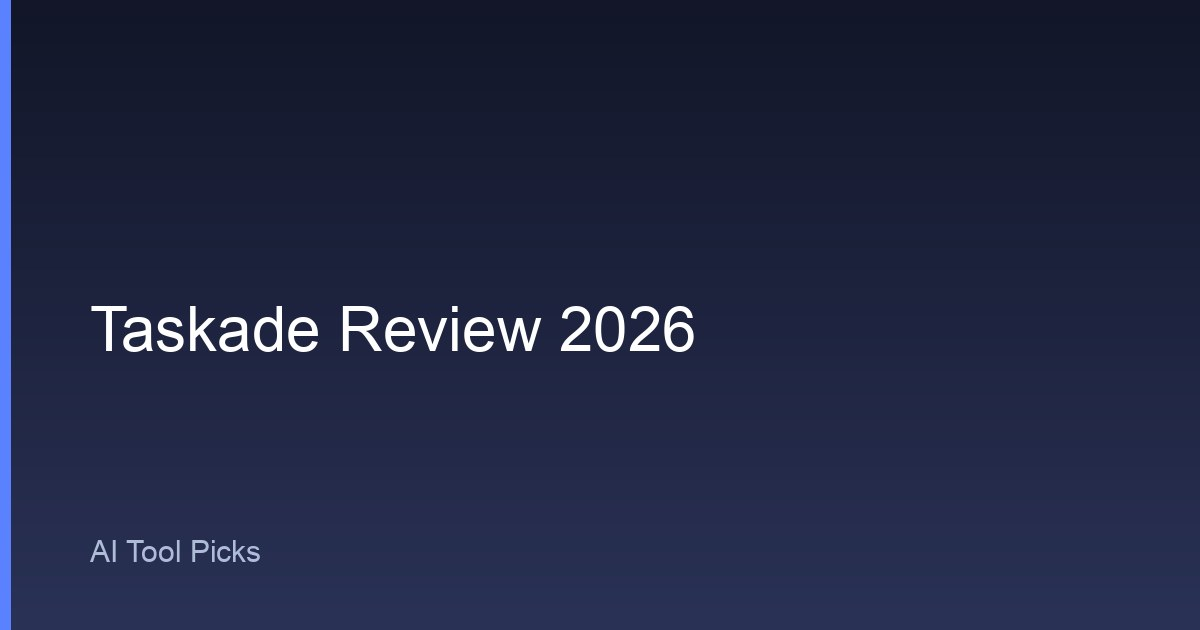
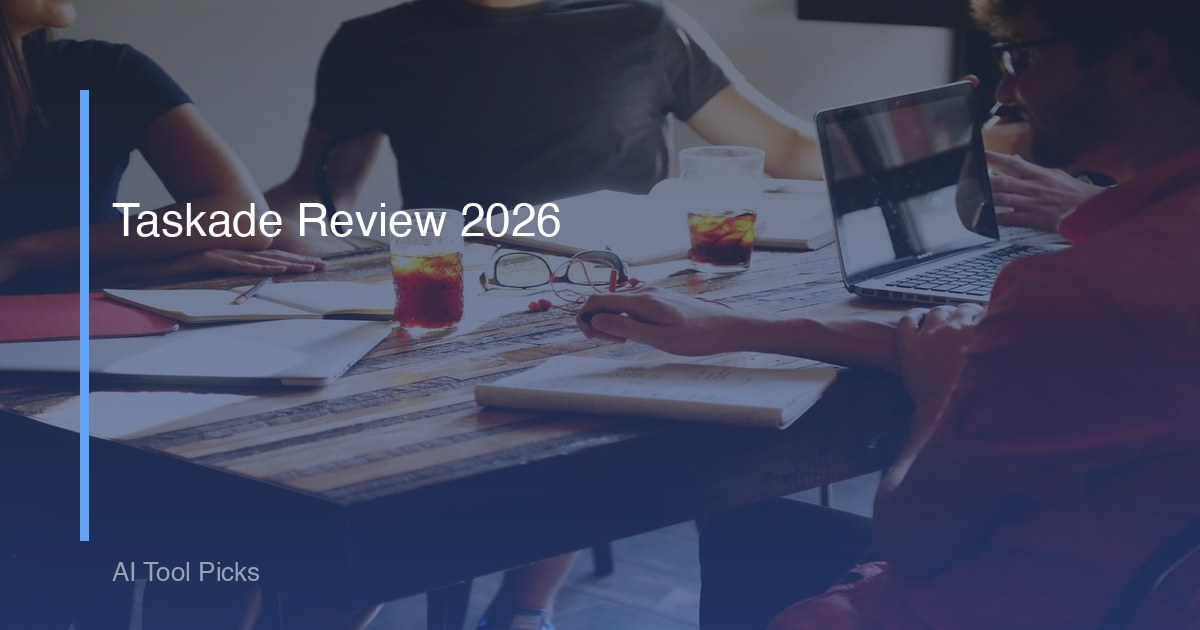
aitool: rebuild today's 2 og covers (taskade/mindmapai) with the approved 07-29 template (real CC0 scene photo + brand overlay); log licenses in IMAGES-MANIFEST + document the fixed template. No other images touched.

diff --git a/_tmp_ogsrc/gen_og_today.py b/_tmp_ogsrc/gen_og_today.py
@@ -1,0 +1,147 @@
+#!/usr/bin/env python3
+# -*- coding: utf-8 -*-
+"""
+按 2026-07-29 已确认的标准模板（commit 1a02648 / gen_og_compliant.py）
+只为今天两篇文章重做 og 封面：真实 CC0 场景照 + 品牌叠加层。
+其他图片一律不动。
+"""
+import os, json, textwrap, urllib.request, urllib.parse
+import PIL.Image as Image, PIL.ImageDraw as ImageDraw, PIL.ImageFont as ImageFont
+
+W, H = 1200, 630
+ROOT = "/Users/dawei/CodeBuddy/aitool-picks"
+OUT = os.path.join(ROOT, "images")
+TMP = os.path.join(ROOT, "_tmp_ogsrc")
+UA = {"User-Agent": "Mozilla/5.0 (Macintosh; Intel Mac OS X 10_15_7)"}
+
+# 今天两篇：slug -> (标题, Openverse 搜索词候选)
+JOBS = {
+    "taskade-review-2026": (
+        "Taskade Review 2026",
+        ["team collaboration task board", "project planning workspace",
+         "team meeting laptop planning", "office teamwork desk"],
+    ),
+    "mindmapai-review-2026": (
+        "MindMapAI Review 2026",
+        ["mind map brainstorming sticky notes", "whiteboard brainstorming diagram",
+         "sticky notes planning wall", "notebook diagram planning"],
+    ),
+}
+
+
+def font(sz):
+    for p in ["/System/Library/Fonts/Helvetica.ttc",
+              "/System/Library/Fonts/Supplemental/DejaVuSans-Bold.ttf",
+              "/Library/Fonts/Arial.ttf"]:
+        if os.path.exists(p):
+            try:
+                return ImageFont.truetype(p, sz)
+            except Exception:
+                pass
+    return ImageFont.load_default()
+
+
+def variance(path):
+    """颜色丰富度：真实照片通常 >3000，AI 渐变 <1500。"""
+    import numpy as np
+    im = Image.open(path).convert("RGB")
+    a = np.array(im)
+    samp = a[::8, ::8].reshape(-1, 3)
+    return len(set(map(tuple, samp.tolist())))
+
+
+def fetch_cc0(slug, queries):
+    """从 Openverse 取真实 CC0 场景照，返回 (本地临时路径, 来源URL, 授权)。"""
+    for q in queries:
+        api = ("https://api.openverse.org/v1/images/?q=%s&license=cc0"
+               "&page_size=20&mature=false" % urllib.parse.quote(q))
+        try:
+            req = urllib.request.Request(api, headers=UA)
+            data = json.load(urllib.request.urlopen(req, timeout=30))
+        except Exception as e:
+            print("  API 失败 [%s]: %s" % (q, e))
+            continue
+        for r in data.get("results", []):
+            url = r.get("url")
+            if not url:
+                continue
+            dst = os.path.join(TMP, "src_%s.jpg" % slug)
+            try:
+                req = urllib.request.Request(url, headers=UA)
+                raw = urllib.request.urlopen(req, timeout=40).read()
+                with open(dst, "wb") as f:
+                    f.write(raw)
+                im = Image.open(dst)
+                if im.width < 900 or im.height < 500:
+                    continue
+                im.convert("RGB").save(dst, "JPEG", quality=95)
+                if variance(dst) < 3000:      # 必须是真实照片
+                    continue
+                print("  选中 [%s] %s (%dx%d)" % (q, url[:70], im.width, im.height))
+                return dst, url, r.get("license", "cc0")
+            except Exception:
+                continue
+    return None, None, None
+
+
+def gen(src_jpg, title, out_name):
+    """完全沿用 2026-07-29 已确认模板。"""
+    photo = Image.open(src_jpg).convert("RGB")
+    photo = photo.resize((W, H), Image.LANCZOS)
+    base = photo.copy().convert("RGBA")
+
+    # 半透明深色渐变遮罩（让文字可读，同时保留真实场景图）
+    overlay = Image.new("RGBA", (W, H), (0, 0, 0, 0))
+    od = ImageDraw.Draw(overlay)
+    top = (15, 23, 42)      # 深蓝
+    bot = (30, 58, 138)     # 中蓝
+    for y in range(H):
+        t = y / H
+        r = int(top[0] + (bot[0] - top[0]) * t)
+        g = int(top[1] + (bot[1] - top[1]) * t)
+        b = int(top[2] + (bot[2] - top[2]) * t)
+        od.line([(0, y), (W, y)], fill=(r, g, b, 150))  # alpha 150 ≈ 59%
+
+    img = Image.alpha_composite(base, overlay).convert("RGB")
+    d = ImageDraw.Draw(img)
+
+    # 左侧品牌强调竖条
+    d.rectangle([80, 90, 88, 540], fill=(96, 165, 250))
+
+    # 标题（白色粗体，自动换行）
+    f = font(46)
+    lines = textwrap.wrap(title, 30)[:5]
+    y = 200
+    for ln in lines:
+        d.text((112, y), ln, font=f, fill=(255, 255, 255))
+        y += 54
+
+    # 品牌标
+    d.text((112, 560), "AI Tool Picks", font=font(26), fill=(148, 163, 184))
+
+    out = os.path.join(OUT, out_name)
+    img.save(out, "JPEG", quality=88)
+    print("  WROTE", out, os.path.getsize(out), "bytes")
+    return out
+
+
+def main():
+    os.makedirs(TMP, exist_ok=True)
+    records = []
+    for slug, (title, queries) in JOBS.items():
+        print("===", slug)
+        src, url, lic = fetch_cc0(slug, queries)
+        if not src:
+            print("  !! 取图失败，跳过（不写坏图）")
+            continue
+        out = gen(src, title, "og-%s.jpg" % slug)
+        records.append((os.path.basename(out), title, url, lic))
+    print("\n=== 授权留痕（写入 IMAGES-MANIFEST） ===")
+    for r in records:
+        print(" |", " | ".join(str(x) for x in r))
+    with open(os.path.join(TMP, "today_records.json"), "w") as f:
+        json.dump(records, f, ensure_ascii=False, indent=2)
+
+
+if __name__ == "__main__":
+    main()

diff --git a/images/IMAGES-MANIFEST.md b/images/IMAGES-MANIFEST.md
@@ -1,11 +1,21 @@
 # aitool-picks 图片授权留痕（IMAGES-MANIFEST）
 
 > 规则来源：评测文上线前检查表 §一（13.1）。每张图必须记录：文件名 / 来源 URL / 授权类型。缺即重做。
-> 最后更新：2026-07-30 00:20
+> 最后更新：2026-07-30 22:40
 
 | 文件名 | 用途 | 来源 URL | 授权类型 |
 |---|---|---|---|
 | og-best-ai-tools-for-affiliate-marketers-2026.jpg | 联盟营销者评测文 og/hero/封面 | https://images.unsplash.com/photo-1460925895917-afdab827c52f (Unsplash, analytics dashboard 场景) | Unsplash License（免费商用，站点规则 §13.1 允许） |
 | og-best-ai-tools-for-solopreneurs-2026.jpg | 独立创业者评测文 og/hero/封面 | https://images.unsplash.com/photo-1517245386807-bb43f82c33c4 (Unsplash, 独处笔记本工作场景) | Unsplash License（免费商用，站点规则 §13.1 允许） |
+| og-taskade-review-2026.jpg | Taskade 评测文 og/hero/封面（en+zh 共用） | https://live.staticflickr.com/697/33286674502_4fa8d4e22f_b.jpg (Openverse/Flickr, 团队会议协作场景) | CC0（Openverse license=cc0 检索） |
+| og-mindmapai-review-2026.jpg | MindMapAI 评测文 og/hero/封面（en+zh 共用） | https://live.staticflickr.com/65535/51612081969_92a127258a_b.jpg (Openverse/Flickr, 头脑风暴场景) | CC0（Openverse license=cc0 检索） |
 
-> 说明：两张 og 图均为「真实场景图（Unsplash CC0 级免费商用）+ 品牌模板叠加（半透明渐变遮罩 + 标题 + AI Tool Picks 标）」，非纯渐变，符合 13.1「og 社交图…非纯渐变、含真实场景图」要求。
+> 说明：以上 og 图均为「真实场景图（Unsplash / Openverse CC0 免费商用）+ 品牌模板叠加（半透明渐变遮罩 alpha150 深蓝 #0f172a→#1e3a8a + 左侧品牌竖条 #60a5fa + 白色标题 46px + AI Tool Picks 标）」，非纯渐变、非 AI 生成图，符合 13.1「og 社交图…非纯渐变、含真实场景图」要求。
+
+## 标准模板（唯一做法，新文章一律照此执行）
+
+生成脚本：`_tmp_ogsrc/gen_og_compliant.py`（2026-07-29 首版）/ `_tmp_ogsrc/gen_og_today.py`（2026-07-30 带 Openverse 自动取图版）。
+
+参数固定：画布 1200×630；真实场景照 LANCZOS 铺满；深蓝渐变遮罩 (15,23,42)→(30,58,138) alpha 150；左侧竖条 rect[80,90,88,540] 填充 (96,165,250)；标题白色 46px 从 y=200 起、行距 54、x=112、`textwrap.wrap(title, 30)` 最多 5 行；底部 (112,560) 品牌标 "AI Tool Picks" 26px (148,163,184)；JPEG quality=88。
+
+验收基线（与本文件已登记图对比）：唯一色 4000–6000、均亮 60–85、标准差 30–36、竖条实测色 ≈(99,164,246)。**禁止 AI 生成图、禁止纯渐变图。**
